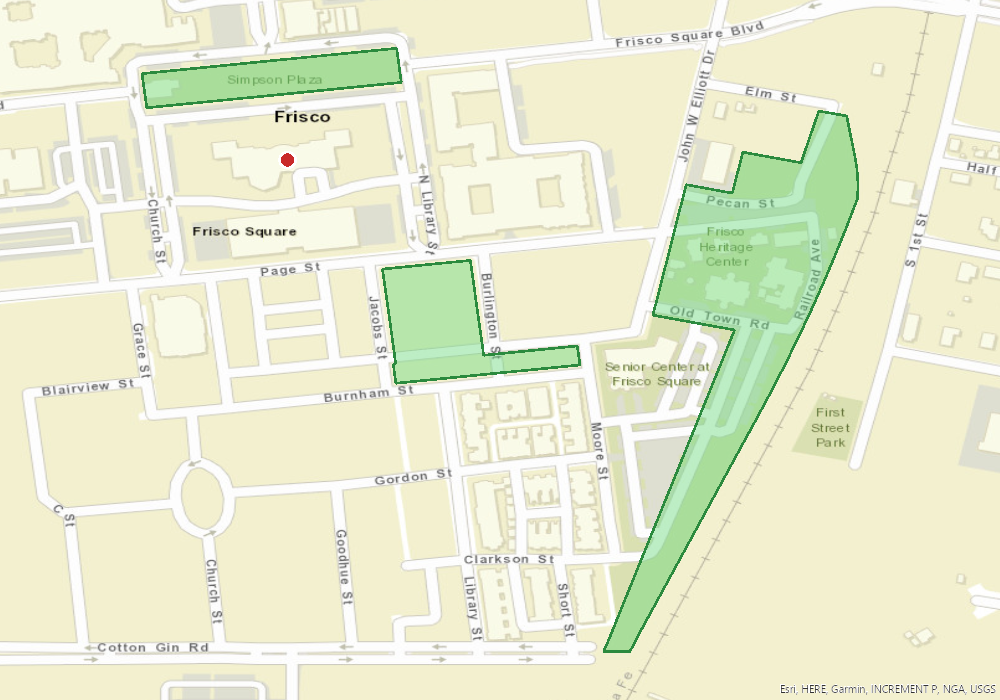
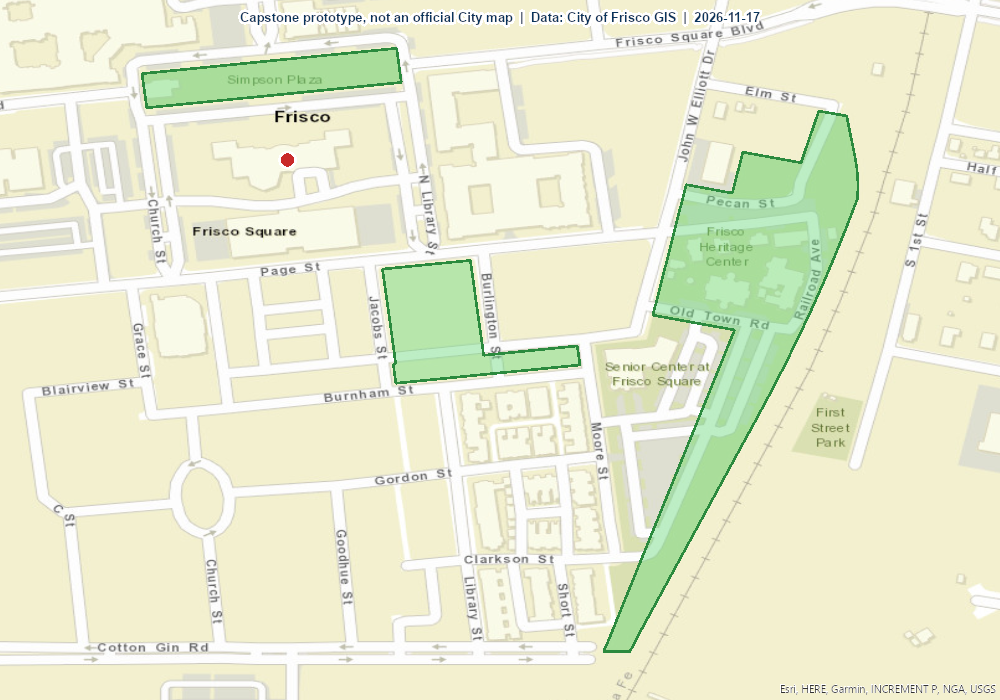
Update docs and test evidence for new tools, downloads and CI
- README, architecture, MCP tool catalog, security, GIS inventory (print
  service, catalog search, buffer accuracy cross-check), roadmap
- Test report: 205 passed / 0 failed (30 live GIS, 11 browser)
- Root predev/pretest/pretypecheck build the MCP server package so a fresh
  clone works without a prior build (found by clean-clone CI simulation)

Claude-Session: https://claude.ai/code/session_01XuhNvnkFTzUoDs7wuv3JZi

Changed region(s): [[0.217, 0.0, 0.775, 0.06]]

diff --git a/docs/TEST_REPORT.md b/docs/TEST_REPORT.md
@@ -15,17 +15,18 @@ Raw evidence (committed):
 |---|---|---|---|---|---|
 | `packages/mcp-server/test/unit.address-geometry.test.ts` | Unit | 27 | 27 | 0 | 0 |
 | `packages/mcp-server/test/mocked.reliability.test.ts` | Mocked (fake fetch) | 26 | 26 | 0 | 0 |
-| `packages/mcp-server/test/mcp.integration.test.ts` — protocol | MCP integration (real server over stdio) | 7 | 7 | 0 | 0 |
-| `packages/mcp-server/test/mcp.integration.test.ts` — live | **Live GIS** via MCP | 13 | 13 | 0 | 0 |
-| `apps/backend/test/unit.planner.test.ts` | Unit | 44 | 44 | 0 | 0 |
+| `packages/mcp-server/test/mocked.catalog-count-image.test.ts` | Mocked (catalog search, buffer/count, map image) | 11 | 11 | 0 | 0 |
+| `packages/mcp-server/test/mcp.integration.test.ts` — protocol | MCP integration (real server over stdio) | 8 | 8 | 0 | 0 |
+| `packages/mcp-server/test/mcp.integration.test.ts` — live | **Live GIS** via MCP | 16 | 16 | 0 | 0 |
+| `apps/backend/test/unit.planner.test.ts` | Unit | 51 | 51 | 0 | 0 |
 | `apps/backend/test/mocked.claude-loop.test.ts` | Mocked (scripted model + fake MCP) | 11 | 11 | 0 | 0 |
-| `apps/backend/test/mocked.api-security.test.ts` | Mocked (supertest + fake MCP) | 19 | 19 | 0 | 0 |
-| `apps/backend/test/live.e2e-pipeline.test.ts` | **Live** HTTP → MCP client → MCP server → ArcGIS (offline + AI-scripted) | 13 | 13 | 0 | 0 |
-| `apps/web/test/mapStyles.test.ts` | Unit | 4 | 4 | 0 | 0 |
-| `e2e/app.spec.ts` | **Browser E2E** (Chromium desktop + mobile, live stack, axe) | 10 | 10 | 0 | 0 |
-| **Total** | | **174** | **174** | **0** | **0** |
+| `apps/backend/test/mocked.api-security.test.ts` | Mocked (supertest + fake MCP) | 22 | 22 | 0 | 0 |
+| `apps/backend/test/live.e2e-pipeline.test.ts` | **Live** HTTP → MCP client → MCP server → ArcGIS (offline + AI-scripted + PNG) | 14 | 14 | 0 | 0 |
+| `apps/web/test/mapStyles.test.ts`, `csv.test.ts` | Unit | 8 | 8 | 0 | 0 |
+| `e2e/app.spec.ts` | **Browser E2E** (Chromium desktop + mobile, live stack, axe) | 11 | 11 | 0 | 0 |
+| **Total** | | **205** | **205** | **0** | **0** |
 
-Commands: `LIVE_GIS=1 npm test` (all Vitest suites, live tests enabled) and `npm run build && npm run test:e2e`. Without `LIVE_GIS=1` the 26 live tests are skipped and everything else runs offline.
+Commands: `LIVE_GIS=1 npm test` (all Vitest suites, live tests enabled) and `npm run build && npm run test:e2e`. Without `LIVE_GIS=1` the 30 live tests are skipped and everything else runs offline. The same offline run was reproduced from a clean clone with `npm ci` (as CI does).
 
 ### Defects found by testing and fixed
 | Found by | Defect | Fix |
@@ -39,6 +40,8 @@ Commands: `LIVE_GIS=1 npm test` (all Vitest suites, live tests enabled) and `npm
 | Discovery script | Amenity points inside overlapping park polygons credited to one park only; "(Future Site)" parks and a UI placeholder record could be returned | Multi-park assignment; future sites excluded by default; placeholder skipped |
 | Live results review | City address-point citation lacked a last-edited date | Geocoder citations now include layer freshness |
 | E2E | Flaky skip-link focus test (headless focus starts in browser chrome) | Deterministic focus setup |
+| Clean-clone CI simulation | `npm run typecheck` / `npm test` failed on a fresh checkout because the backend imports the MCP server package's compiled output | Root `pretypecheck`, `pretest` and `predev` scripts build the MCP server package first |
+| Live map-image review | The caption drawn into map images was clipped (the print service ignores left alignment) | Caption anchored at the top centre and shortened |
 
 ## Per-use-case results
 
@@ -60,11 +63,20 @@ All rows use **live GIS data**. "Mode" indicates which assistant path produced t
 | NEG1 | Zoning at 99999 Nonexistent Imaginary Ln | geocoders | Clear failure, no fabrication | `ADDRESS_NOT_FOUND` → "I couldn't find … in or near Frisco" | **Pass** | — | — | Live |
 | NEG2 | Speed limit on Zzyzx Boulevard | Speed Limits | No made-up limit | No match / suggestions only | **Pass** | — | — | Live |
 
+### Proposal tool-catalog tools (added after the 10 use cases)
+
+| ID | Question / action | Source | Expected | Actual (2026-11-17) | Status | Live/mocked |
+|---|---|---|---|---|---|---|
+| CAT1 | What maps does the City publish about construction? | ArcGIS Online item search | Only public FriscoTexas items | 10 items, e.g. "Construction & Development App", "Construction & Development Map", "Traffic Experience" | **Pass** (MCP, planner) | Live + mocked (operator injection) |
+| CNT1 | How many parks are within 2 miles of 6101 Frisco Square Blvd? | ParkApp_Testing (server buffer) | Equals the geodesic radius search | Count equals `find_parks_within_radius` (19, future sites excluded) | **Pass** (MCP) | Live + mocked |
+| IMG1 | Map image of an answer | Esri Export Web Map task | PNG with result features, returned as MCP image content | 1000×700 PNG with the nearest-park polygons, address marker and caption; also downloaded via the web UI (`docs/screenshots/12-downloaded-map-image.png`) | **Pass** (MCP, API, browser) | Live + mocked (allowlist bypass refused) |
+| CSV | Download results (CSV) | — | One row per result, sources and retrieval time, formula-safe | CSV contains "Simpson Plaza" and a `data_sources` column | **Pass** (browser, unit) | Live + unit |
+
 ## Category coverage
 
 **Functional:** GIS requests and pagination (mocked + live); every MCP tool (live); MCP client connect/discover/call (MCP integration + backend live); geocoding incl. fallbacks (live UC10b); spatial searches (UC1/2/6/9); amenity filtering (UC3/4, spatial-join fixture test); zoning (UC5); trails (UC6/7); road projects (UC8/9); speed limits (UC10, fixture clarification test); map visualization (browser: polygons, markers, legend, popups, result selection).
 
-**Conversational:** follow-ups (UC4 offline + AI-scripted); context reuse ("zoning there"); ambiguous requests (Preston Rd clarification; "nearest park?" without address asks for one); unsupported questions (weather, poems → help text); 44 phrasing-variation and planner unit tests.
+**Conversational:** follow-ups (UC4 offline + AI-scripted); context reuse ("zoning there"); ambiguous requests (Preston Rd clarification; "nearest park?" without address asks for one); unsupported questions (weather, poems → help text); 51 phrasing-variation and planner unit tests.
 
 **Reliability:** invalid addresses (NEG1); missing records/empty results (NEG2, zero-result summaries); service timeouts, network failures, 5xx with retry, ArcGIS error-in-200, non-JSON bodies, oversized results (mocked); AI provider failure → offline fallback (mocked API); MCP connection failure → 503 (mocked API); City speed layer outage → open-data fallback (mocked).
 

diff --git a/README.md b/README.md
@@ -4,7 +4,7 @@
 
 Residents ask everyday questions such as *"What is the closest park to 6101 Frisco Square Blvd?"*, *"Which of those also have playgrounds?"* or *"What's the speed limit on Preston Road?"*. Each answer comes back in plain English with an interactive map, the City data layers it came from (with last-updated dates), and a short explanation of how it was derived.
 
-All GIS access goes through a genuine **Model Context Protocol (MCP)** server, which exposes 13 validated, read-only tools over the City of Frisco's ArcGIS REST services. The backend connects to it with the official **MCP client**, and a language model (Claude) chooses which tools to call.
+All GIS access goes through a genuine **Model Context Protocol (MCP)** server, which exposes 16 validated, read-only tools over the City of Frisco's ArcGIS REST services. These include the proposal's full tool catalog: search content, describe layer, query features, get map image, and buffer/count. The backend connects to it with the official **MCP client**, and a language model (Claude) chooses which tools to call.
 
 ```
 Citizen → Web UI → Backend API → AI assistant (Claude) → MCP client ⇄(stdio)⇄ MCP server → City ArcGIS REST → answer + map + sources
@@ -56,10 +56,11 @@ Details and evidence: [docs/USE_CASE_FEASIBILITY.md](docs/USE_CASE_FEASIBILITY.m
 ## Repository layout
 
 ```
-packages/mcp-server   MCP server: ArcGIS client, layer registry, geometry, 13 tools, tests
+packages/mcp-server   MCP server: ArcGIS client, layer registry, geometry, 16 tools, tests
 apps/backend          Express API, MCP client, Claude orchestrator, offline planner, tests
 apps/web              React + Leaflet citizen UI
 e2e/                  Playwright browser tests
+.github/workflows/    CI: offline gate on every PR; live GIS + browser tests nightly
 scripts/              gis-discovery.ts (data inventory evidence), dev.mjs (dev launcher)
 examples/             Claude Desktop config, MCP-over-HTTP curl example
 docs/                 Architecture, GIS inventory, feasibility, tools, security, test report, screenshots
@@ -67,7 +68,7 @@ docs/                 Architecture, GIS inventory, feasibility, tools, security,
 
 ## Installation
 
-Requirements: **Node.js ≥ 20.10** (22 LTS recommended) and npm 10. Internet access to `services6.arcgis.com`, `maps.friscotexas.gov`, `geocode.arcgis.com`, `geocoding.geo.census.gov` and `server.arcgisonline.com` (basemap tiles).
+Requirements: **Node.js ≥ 20.10** (22 LTS recommended) and npm 10. Internet access to `services6.arcgis.com`, `maps.friscotexas.gov`, `geocode.arcgis.com`, `geocoding.geo.census.gov`, `server.arcgisonline.com` / `services.arcgisonline.com` (basemaps), `www.arcgis.com` (catalog search) and `utility.arcgisonline.com` (map images).
 
 ```bash
 git clone https://github.com/pgajera31/frisco-gis-citizen-assistant.git
@@ -130,7 +131,7 @@ npm run start -w apps/backend                     # backend API (launches its ow
 npm run dev -w apps/web                           # web UI dev server
 ```
 
-Health check: `curl http://localhost:8787/api/health` returns `{"status":"ok","mode":"offline|ai","mcp":{"connected":true,"toolCount":13,"transport":"stdio"}}`.
+Health check: `curl http://localhost:8787/api/health` returns `{"status":"ok","mode":"offline|ai","mcp":{"connected":true,"toolCount":16,"transport":"stdio"}}`.
 
 ## Testing
 
@@ -142,15 +143,18 @@ npm run typecheck             # TypeScript across all workspaces
 npm run inventory             # re-run GIS data discovery → docs/gis-discovery/
 ```
 
-Latest results (2026-11-17): **174 tests passed, 0 failed**, including 26 live-GIS tests and 10 browser tests. See [docs/TEST_REPORT.md](docs/TEST_REPORT.md).
+Latest results (2026-11-17): **205 tests passed, 0 failed**, including 30 live-GIS tests and 11 browser tests.
+
+**Continuous integration** (`.github/workflows/ci.yml`): every pull request runs typecheck, build and the offline suites. A second job runs the live GIS and Playwright suites; it runs nightly and on demand, so changes in the City's services are caught early. See [docs/TEST_REPORT.md](docs/TEST_REPORT.md).
 
 ## Using the application
 
 1. Pick a suggested question or type your own, using any Frisco address or landmark.
 2. Read the answer, then open **"Sources & how this was answered"** to see the data layers (with links and last-updated dates), the method, the limitations, and the MCP tools that ran.
 3. Click a result chip under the answer to highlight it on the map. Click features on the map for details.
-4. Ask follow-ups such as *"Which of those also have playgrounds?"*, *"What's the zoning there?"* or *"…near 8750 Preston Rd?"*.
-5. Use **High contrast** for a high-contrast theme and **About & glossary** for plain-language GIS terms. On phones, switch between **Chat** and **Map** with the tabs.
+4. Use **Download results (CSV)** to save the answer's data (with source layers and retrieval time), or **Download map image (PNG)** for a printable map of the answer. The image is rendered by the MCP `get_map_image` tool through Esri's public print service and carries a prototype/data caption.
+5. Ask follow-ups such as *"Which of those also have playgrounds?"*, *"What's the zoning there?"* or *"…near 8750 Preston Rd?"*.
+6. Use **High contrast** for a high-contrast theme and **About & glossary** for plain-language GIS terms. On phones, switch between **Chat** and **Map** with the tabs.
 
 | Walking loops | Road construction | Speed limit (mobile) |
 |---|---|---|

diff --git a/docs/MCP_TOOLS.md b/docs/MCP_TOOLS.md
@@ -24,9 +24,9 @@ Inputs are validated by zod schemas before a handler runs; invalid input returns
 { ok: false, tool, error: { code, message }, suggestions?: string[] }
 ```
 
-The `content[0].text` copy is the same JSON **without** map geometry (for model context efficiency).
+The `content[0].text` copy is the same JSON **without** map geometry (for model context efficiency). `get_map_image` with `include_image_data: true` also returns the PNG as a second content item, `{ type: "image", mimeType: "image/png", data: <base64> }`. The image is never duplicated in `structuredContent`.
 
-Error codes: `ADDRESS_NOT_FOUND`, `LOCATION_REQUIRED`, `UNKNOWN_AMENITY`, `UNKNOWN_TRAIL_TYPE`, `FILTER_REQUIRED`, `STREET_NOT_FOUND`, `PARK_NOT_FOUND`, `TIMEOUT`, `NETWORK`, `HTTP_ERROR`, `ARCGIS_ERROR`, `BAD_RESPONSE`, `TOO_MANY_RESULTS`, `ENDPOINT_NOT_APPROVED`, `INTERNAL`.
+Error codes: `QUERY_REQUIRED`, `NOTHING_TO_DRAW`, `OUT_OF_AREA`, `TOO_MANY_FEATURES`, `BAD_EXTENT`, `UNSUPPORTED_GEOMETRY`, `ADDRESS_NOT_FOUND`, `LOCATION_REQUIRED`, `UNKNOWN_AMENITY`, `UNKNOWN_TRAIL_TYPE`, `FILTER_REQUIRED`, `STREET_NOT_FOUND`, `PARK_NOT_FOUND`, `TIMEOUT`, `NETWORK`, `HTTP_ERROR`, `ARCGIS_ERROR`, `BAD_RESPONSE`, `TOO_MANY_RESULTS`, `ENDPOINT_NOT_APPROVED`, `INTERNAL`.
 
 ## Location input (shared)
 `address` (string, 3–200 chars) **or** `latitude` (32.9–33.4) + `longitude` (−97.1 to −96.5).
@@ -47,7 +47,10 @@ Error codes: `ADDRESS_NOT_FOUND`, `LOCATION_REQUIRED`, `UNKNOWN_AMENITY`, `UNKNO
 | `find_road_projects_near` | UC9 | location, `radius_miles` 0.1–5 (default 1), `statuses` (default Construction/Design/Planning), `project_types` | as above plus `distanceMiles` |
 | `find_traffic_closures` | supporting | location?, `radius_miles` (default 2) | `description, timePeriod, owner, distanceMiles?` (Status = Active only) |
 | `get_speed_limit` | UC10 | `street_name` (2–80), `near_address?` | `street, matchingStreetNames[], speedLimitsByMph[{mph, segmentCount, mappedLengthMiles, addressRange, owners[]}], segmentsWithoutSpeedLimit, atAddress?, schoolZones[], maintainedBy[]`. Asks for clarification when several limits apply. |
-| `describe_data_sources` | transparency | `layer_key?` | approved layer registry, or live metadata for one layer |
+| `describe_data_sources` | transparency (proposal: *describe item/layer*) | `layer_key?` | approved layer registry, or live metadata for one layer |
+| `search_gis_catalog` | proposal: *search portal content* | `query` (2–80 chars), `item_types?` (Web Map, Feature Service, Map Service, Web Experience, Web Mapping Application, Dashboard, StoryMap), `limit` ≤ 20 | `title, type, description, lastModified, itemPage, serviceOrAppUrl`. Always restricted server-side to `owner:FriscoTexas AND access:public`; search operators are stripped. |
+| `count_features_within_radius` | proposal: *buffer/count* | location, `layer` (parks, parkAmenities, trails, activeCip, trafficClosures, addressPoints, parcels, schoolZones), `radius_miles` 0.1–5 | `count`, plus the fixed filter used (e.g. open parks only, Existing trails, CIP in Construction/Design/Planning). The map shows the buffer circle. Server-side ArcGIS distance buffer, cross-checked against the geodesic park search (identical counts). |
+| `get_map_image` | proposal: *get map image* / *execute GP task* | location (+ `radius_miles`), or `bbox`, `overlay_layers?` (≤ 4 of parks, trails, zoningOdh, activeCip, trafficClosures, parcels, parkAmenities, schoolZones), `highlight?` (GeoJSON FeatureCollection from another tool's `map`, ≤ 600 features / 60,000 vertices, Frisco area only), `include_image_data` | `imageUrl` (temporary Esri output), `width/height` 1000×700, `extent`. Rendered by Esri's Export Web Map task: basemap, live City layers with their own symbols, results in the web map's colours, and a prototype/data caption. |
 
 ## Adding a tool or dataset
 

diff --git a/docs/SECURITY.md b/docs/SECURITY.md
@@ -4,11 +4,14 @@
 
 | Area | Control | Where | Verified by |
 |---|---|---|---|
-| Authorized data only | All GIS URLs come from a fixed registry. The HTTP client rejects any URL not under an approved HTTPS prefix: the City's AGOL org, the City ArcGIS Server `Public/` folder, the Esri World Geocoder, and the Census geocoder. | `arcgis/layers.ts`, `arcgis/client.ts#assertApprovedUrl` | `mocked.reliability.test.ts` › endpoint allowlist (other hosts, http, other AGOL orgs, non-Public folders, `file://`) |
+| Authorized data only | All GIS URLs come from a fixed registry. The HTTP client rejects any URL not under an approved HTTPS prefix: the City's AGOL org, the City ArcGIS Server `Public/` folder, the Esri World Geocoder, the Census geocoder, the ArcGIS Online item-search endpoint, and Esri's public print service plus its output directory. | `arcgis/layers.ts`, `arcgis/client.ts#assertApprovedUrl` | `mocked.reliability.test.ts` › endpoint allowlist (other hosts, http, other AGOL orgs, non-Public folders, `file://`) |
 | No arbitrary URLs | No tool accepts a URL, `where` clause, SQL or endpoint parameter. | `server.ts` schemas | `mcp.integration.test.ts` › "does not offer any write/delete or arbitrary-URL tool" |
 | Read-only | Only `query` and metadata `GET`s are ever issued. Tools are annotated `readOnlyHint` / non-destructive. | client, server | MCP integration tests |
 | Input validation | zod schemas on every MCP tool (types, ranges, lengths, enums). The API validates `message` (1–500 chars, control characters stripped) and the JSON body size (10 kB). | `server.ts`, `app.ts` | MCP schema tests; API validation tests |
 | SQL injection | Free text is reduced to `[A-Za-z0-9 .-'&/]` (≤80 chars) and embedded only in escaped single-quoted literals. Enum values come from fixed lists. | `sanitizeSqlText`, `sqlString` | SQL safety tests |
+| Catalog search scope | `search_gis_catalog` always appends `owner:FriscoTexas AND access:public` server-side and strips search operators (`( ) : " AND OR NOT`), so callers cannot search other organisations or private items. Rows with any other owner are dropped. | `catalogSearch.ts` | operator-injection test |
+| Map-image rendering | Highlight geometry is schema-validated (kinds enum, ≤ 600 features) and every coordinate must be in the Frisco area (≤ 60,000 vertices). The print task's output URL is re-checked against the allowlist **before** download, then capped at 8 MB and checked to be `image/png`. The web API never accepts geometry from the browser: `/api/map-image` only draws the server-held result of that session. | `mapImage.ts`, `app.ts` | allowlist-bypass test (malicious output URL is never fetched), schema test, endpoint tests |
+| CSV export | Cells starting with `= + - @`, tab or CR are prefixed with `'` (spreadsheet formula injection); quoting per RFC 4180. | `apps/web/src/csv.ts` | CSV unit tests |
 | Excessive queries | Radius caps (≤10 mi parks, ≤5 mi trails/projects); `maxFeatures` caps with `TOO_MANY_RESULTS`; page-count cap; result caching; per-call timeouts; 6 tool rounds max per question. | client, tools, orchestrator | reliability tests, tool-round-limit test |
 | Rate limiting | 30 chat requests/minute/IP (configurable); one in-flight question per session (HTTP 409). | `app.ts` | rate-limit test |
 | Prompt injection | System prompt treats resident text and tool output as data. Tool output is passed **only** inside `tool_result` blocks, never in the system prompt. The model has no tools beyond the read-only GIS set, so an injected instruction cannot reach other systems. The offline planner never executes instructions. | `prompt.ts`, `claude.ts`, `offline.ts` | prompt-injection tests (API + planner) |

diff --git a/docs/ARCHITECTURE.md b/docs/ARCHITECTURE.md
@@ -8,7 +8,7 @@ Citizen ─► Web UI (React + Leaflet) ─► Backend API (Express) ─► AI o
                                                                              │ stdio (JSON-RPC)
                                                                              ▼
                                                               MCP server "frisco-gis-mcp"
-                                                              13 read-only GIS tools
+                                                              16 read-only GIS tools
                                                                              │ HTTPS (allow-listed)
                                                                              ▼
                                                  City of Frisco ArcGIS REST services (+ geocoders)
@@ -44,10 +44,10 @@ sequenceDiagram
 
 | Component | Path | Responsibility | Key technology |
 |---|---|---|---|
-| **MCP server** | `packages/mcp-server` | Exposes 13 validated, read-only GIS tools. Owns every ArcGIS request, geocoding, spatial maths, and source citation. | `@modelcontextprotocol/sdk` (McpServer, stdio and Streamable HTTP), zod schemas, Turf.js |
+| **MCP server** | `packages/mcp-server` | Exposes 16 validated, read-only GIS tools. Owns every ArcGIS request, geocoding, spatial maths, and source citation. | `@modelcontextprotocol/sdk` (McpServer, stdio and Streamable HTTP), zod schemas, Turf.js |
 | ArcGIS client | `…/src/arcgis/client.ts` | Endpoint allowlist, HTTPS only, timeouts, retry with backoff, ArcGIS-error-in-200 detection, pagination, caching, SQL-literal escaping | `fetch` |
 | Layer registry | `…/src/arcgis/layers.ts` | The only layers the server may query (URL, title, publisher, notes) | — |
-| Tools | `…/src/tools/*.ts` | Parks, zoning, trails, road projects, speed limits, geocoding, catalog | Turf (geodesic distances, point-in-polygon) |
+| Tools | `…/src/tools/*.ts` | Parks, zoning, trails, road projects, speed limits, geocoding, data-source catalog, City GIS item search, buffer/count, map image | Turf (geodesic distances, point-in-polygon, buffers); Esri Export Web Map GP task for PNG rendering |
 | **Backend** | `apps/backend` | HTTP API, sessions, rate limiting, security headers, the **MCP client**, the AI orchestrator, and the offline planner | Express 5, helmet, express-rate-limit, `@anthropic-ai/sdk` |
 | MCP client | `…/src/mcp/client.ts` | Spawns the MCP server (stdio), discovers tools, calls them with timeouts, reconnects | MCP SDK `Client` + `StdioClientTransport` |
 | AI orchestrator | `…/src/assistant/claude.ts` | Manual tool-use loop: tools come from MCP `tools/list`; parallel `tool_use` blocks run concurrently; results return as `tool_result` | Claude `claude-opus-5-5`, adaptive thinking, effort `medium`, server-side refusal fallback |
@@ -89,7 +89,13 @@ Response:
 }
 ```
 
-Other endpoints: `GET /api/health` (mode, model, MCP connection and tool count), `GET /api/tools` (MCP-discovered tool list), `DELETE /api/session/:id`.
+The response also carries `tables` (the result rows of each successful tool, used for CSV export).
+
+Other endpoints:
+- `GET /api/health`: mode, model, MCP connection and tool count.
+- `GET /api/tools`: the MCP-discovered tool list.
+- `POST /api/map-image {sessionId}`: renders the session's **latest answer** as a PNG by calling the MCP `get_map_image` tool. The browser cannot submit geometry; only the server-held result is drawn.
+- `DELETE /api/session/:id`.
 
 ## Observability
 

diff --git a/docs/LIMITATIONS_AND_ROADMAP.md b/docs/LIMITATIONS_AND_ROADMAP.md
@@ -18,7 +18,7 @@
 - Offline-planner mode understands the 10 supported question types and many variations, but not open-ended phrasing. The AI mode is the intended experience.
 - Sessions and rate-limit counters are in memory, so a restart clears conversations.
 - Map shows only the latest answer's features. There is no layer toggling or basemap switching.
-- No static map image or CSV export yet (mentioned as optional in the proposal's risk table).
+- Map images depend on Esri's public print service (`utility.arcgisonline.com`). Its output links are temporary, and the image has a caption but no legend.
 - English only.
 
 ## Before production
@@ -29,10 +29,9 @@
 4. Move to shared session and rate-limit storage (Redis), add AI cost budgets, structured logging and monitoring, plus a status banner fed by layer health checks.
 5. Add authentication to the HTTP MCP endpoint if it is exposed, and put the API behind a gateway with WAF/bot protection.
 6. Run an accessibility audit with assistive-technology users, a usability study with residents, and a content review of glossary and disclaimers with City Communications.
-7. Set up CI: run `npm test` on every PR, nightly `LIVE_GIS=1` runs to detect schema or data drift, and `npm run inventory` diffs.
+7. CI exists (`.github/workflows/ci.yml`: offline gate on PRs, nightly live and browser runs). Next: make the live job a required check once the City confirms service SLAs, and add a nightly `npm run inventory` diff to flag schema changes.
 
 ## Future enhancements (aligned with the proposal)
-- Static map image / PNG download and CSV export of results.
 - Walk-time to amenities (needs a routable sidewalk/trail network).
 - Additional MCP tools: school zones by school, ISD boundaries, future land use, trash pickup or other public services, public facilities and events.
 - Multilingual answers (Spanish first) and voice input.

diff --git a/docs/GIS_DATA_INVENTORY.md b/docs/GIS_DATA_INVENTORY.md
@@ -101,6 +101,10 @@ The City also publishes `CITY/Trails_Update/MapServer/3` "Walking Loops" (35) an
 | Traffic Closures | `AGOL/TrafficClosures/FeatureServer/0` | Polygon · 561 (`Status` Active 1 / Removed 560; `Owner` NTTA 533, City 26) | Supporting "active closures" tool. **Never presented as construction.** | 2026-01-28 |
 | Esri World Geocoder | `https://geocode.arcgis.com/…/World/GeocodeServer/findAddressCandidates` | — | Fallback for landmarks / addresses missing from City points; restricted to a Frisco bounding box, score ≥ 85, `forStorage=false` | live |
 | U.S. Census Geocoder | `https://geocoding.geo.census.gov/geocoder/locations/onelineaddress` | — | Last-resort fallback (range interpolation) | live |
+| ArcGIS Online item search | `https://www.arcgis.com/sharing/rest/search` | — | `search_gis_catalog`: the City's public maps, apps and services (`owner:FriscoTexas`, e.g. 10 items for "construction") | live |
+| Esri Export Web Map Task | `https://utility.arcgisonline.com/arcgis/rest/services/Utilities/PrintingTools/GPServer/Export%20Web%20Map%20Task` | — | `get_map_image`: renders PNGs anonymously. Verified to draw City FeatureServer **and** MapServer layers (e.g. Active CIP) live. | live |
+
+**Buffer accuracy check (live, 2026-11-17).** Server-side ArcGIS `distance` buffers on the park layer around 6101 Frisco Square Blvd returned 8 / 21 / 43 parks at 1 / 2 / 3 miles. The assistant's own geodesic boundary-distance calculation gave **the same 8 / 21 / 43** (future sites included in both). On the City's CIP MapServer, 5 Road projects in Construction/Design/Planning were within 1 mile by both methods. The server-side buffers are therefore consistent with geodesic distance at Frisco's latitude, and `count_features_within_radius` uses them.
 
 ---
 
